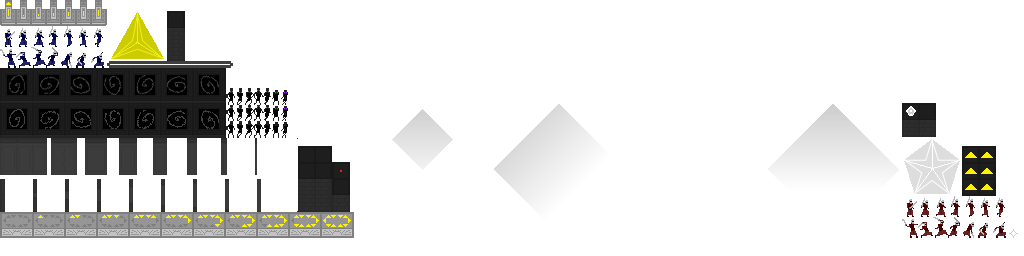
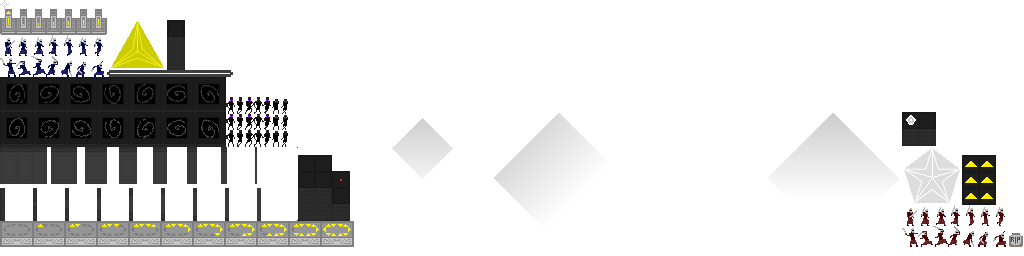
Fixed game over screen and conditions! Also added cute tombstones! :P

diff --git a/core/src/com/logicbytez/sanctuary/game/GameScreen.java b/core/src/com/logicbytez/sanctuary/game/GameScreen.java
@@ -103,17 +103,23 @@ public class GameScreen implements Screen{
 			entity.update(delta);
 		}
 		if(players.size > 1){
-			for(Player player : players){
-				player.contain(camera, view);
+			if(players.first().getHealth() > 0 && players.get(1).getHealth() > 0){
+				for(Player player : players){
+					player.contain(camera, view);
+				}
 			}
 		}
 	}
 
 	//updates the camera and its center
 	public void updateCamera(float delta){
-		if(players.size > 1){
-			cameraCenter.set(players.first().getCenter().add(players.get(1).getCenter()).scl(.5f));
-		}else{
+		if(players.size > 1 && players.get(1).getHealth() > 0){
+			if(players.first().getHealth() > 0){
+				cameraCenter.set(players.first().getCenter().add(players.get(1).getCenter()).scl(.5f));
+			}else{
+				cameraCenter.set(players.get(1).getCenter());
+			}
+		}else if(players.first().getHealth() > 0){
 			cameraCenter.set(players.first().getCenter());
 		}
 		if(shakeTimer > 0){
@@ -152,12 +158,14 @@ public class GameScreen implements Screen{
 			Assets.font25.draw(batch, "return", -35, 0);
 			Assets.font25.draw(batch, "exit", -20, -70);
 			batch.draw(Assets.texture_PauseBar, -62, 43);
-		}else if(players.first().getHealth() <= 0){ //only works for player 1
-			batch.setColor(1, 1, 1, 1);
-			Assets.font50.draw(batch, "game over", -70, 10);
-			batch.setColor(.25f, .25f, .25f, 1);
-			stopped = true;
-			touchScreen = false;
+		}else if(players.first().getHealth() <= 0){
+			if(players.size < 2 || (players.size > 1 && players.get(1).getHealth() <= 0)){
+				batch.setColor(1, 1, 1, 1);
+				Assets.font50.draw(batch, "game over", -100, 50);
+				batch.setColor(.25f, .25f, .25f, 1);
+				stopped = true;
+				touchScreen = false;
+			}
 		}else if(touchScreen){
 			touchPads.getSprite(true).draw(batch);
 			touchPads.getSprite(false).draw(batch);

diff --git a/core/src/com/logicbytez/sanctuary/Assets.java b/core/src/com/logicbytez/sanctuary/Assets.java
@@ -21,9 +21,8 @@ public final class Assets{
 	public static ShaderProgram vignette;
 	public static Sound sound_Door, sound_EidolonHurt, sound_InsertSunstone, sound_PlayerHurt, sound_SwordSlash, sound_SwordSwing;
 	private static TextureAtlas atlas;
-	public static TextureRegion texture_Altar, texture_Column, texture_Door, texture_Eidolon, texture_HealthIndicator;
+	public static TextureRegion texture_Altar, texture_Column, texture_Door, texture_Eidolon, texture_Gravestone, texture_HealthIndicator;
 	public static TextureRegion texture_HudCrystal, texture_HudSunstone;
-	//use these assets, want to use the animate method from assests around 103
 	public static TextureRegion texture_PadButton, texture_PadDiagonal, texture_PadOutline, texture_PadStraight;
 	public static TextureRegion texture_PauseBar, texture_PedestalCrystal, texture_PedestalStone, texture_PlayerBlue, texture_PlayerRed, texture_Portal;
 	public static TiledMap room_Antechamber_Up, room_Antechamber_Down, room_Antechamber_Left, room_Antechamber_Right, room_Sanctuary;
@@ -52,6 +51,7 @@ public final class Assets{
 		texture_Column = atlas.findRegion("column");
 		texture_Door = atlas.findRegion("door");
 		texture_Eidolon = atlas.findRegion("eidolon");
+		texture_Gravestone = atlas.findRegion("gravestone");
 		texture_HealthIndicator = atlas.findRegion("health_indicator");
 		texture_HudCrystal = atlas.findRegion("hud_crystal");
 		texture_HudSunstone = atlas.findRegion("hud_sunstone");

diff --git a/core/src/com/logicbytez/sanctuary/game/entities/Eidolon.java b/core/src/com/logicbytez/sanctuary/game/entities/Eidolon.java
@@ -48,7 +48,7 @@ public class Eidolon extends Being{
 			}
 			nearestPlayer = getGame().getPlayers().first();
 			if(getGame().getPlayers().size > 1 && getGame().getPlayers().get(1).getHealth() > 0){
-				if(distance(getGame().getPlayers().first()) > distance(getGame().getPlayers().get(1))){
+				if(nearestPlayer.getHealth() < 1 || distance(nearestPlayer) > distance(getGame().getPlayers().get(1))){
 					nearestPlayer = getGame().getPlayers().get(1);
 				}
 			}

diff --git a/core/src/com/logicbytez/sanctuary/game/entities/players/Player.java b/core/src/com/logicbytez/sanctuary/game/entities/players/Player.java
@@ -58,7 +58,9 @@ public class Player extends Being{
 		}else{
 			move.setZero();
 		}
-		super.update(delta);
+		if(health > 0){
+			super.update(delta);
+		}
 		healthIndicator.update(delta);
 	}
 
@@ -143,5 +145,8 @@ public class Player extends Being{
 		super.takeDamage(damage);
 		getGame().shakeScreen(.25f, 50);
 		healthIndicator.set(health, maxHealth);
+		if(health <= 0){
+			sprite.setRegion(Assets.texture_Gravestone);
+		}
 	}
 }

diff --git a/core/src/com/logicbytez/sanctuary/TitleScreen.java b/core/src/com/logicbytez/sanctuary/TitleScreen.java
@@ -68,6 +68,7 @@ public class TitleScreen implements Screen{
 				game.setScreen(game.gameScreen);
 			}
 		}
+		Assets.font50.setColor(1, 1, 1, 1); //resets font
 	}
 
 	@Override
